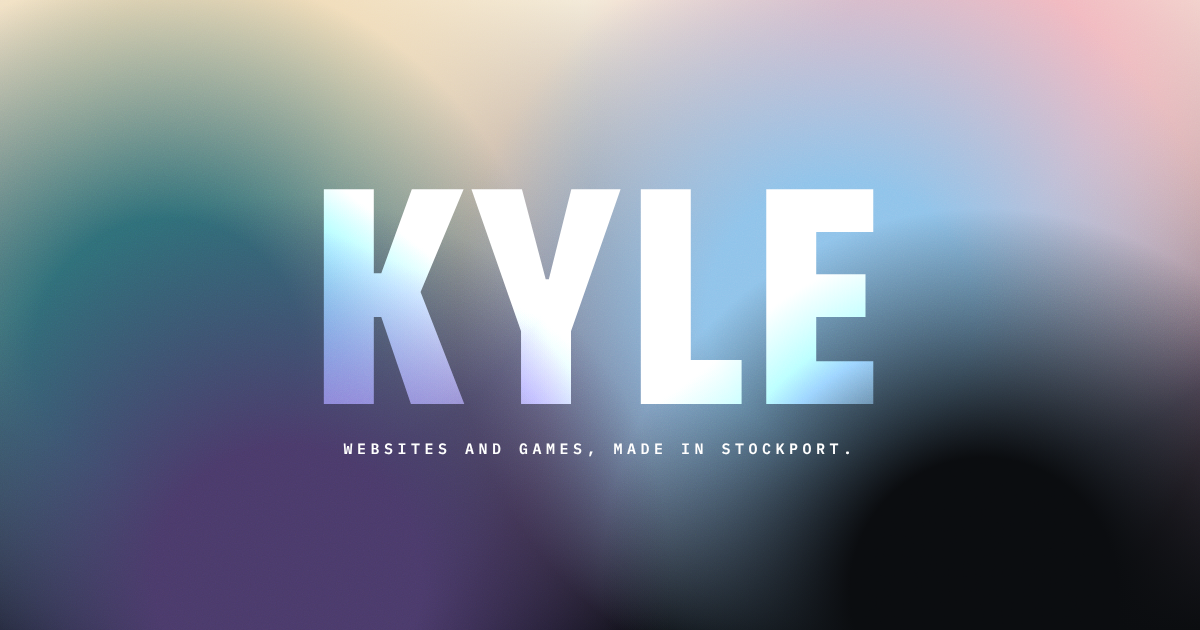
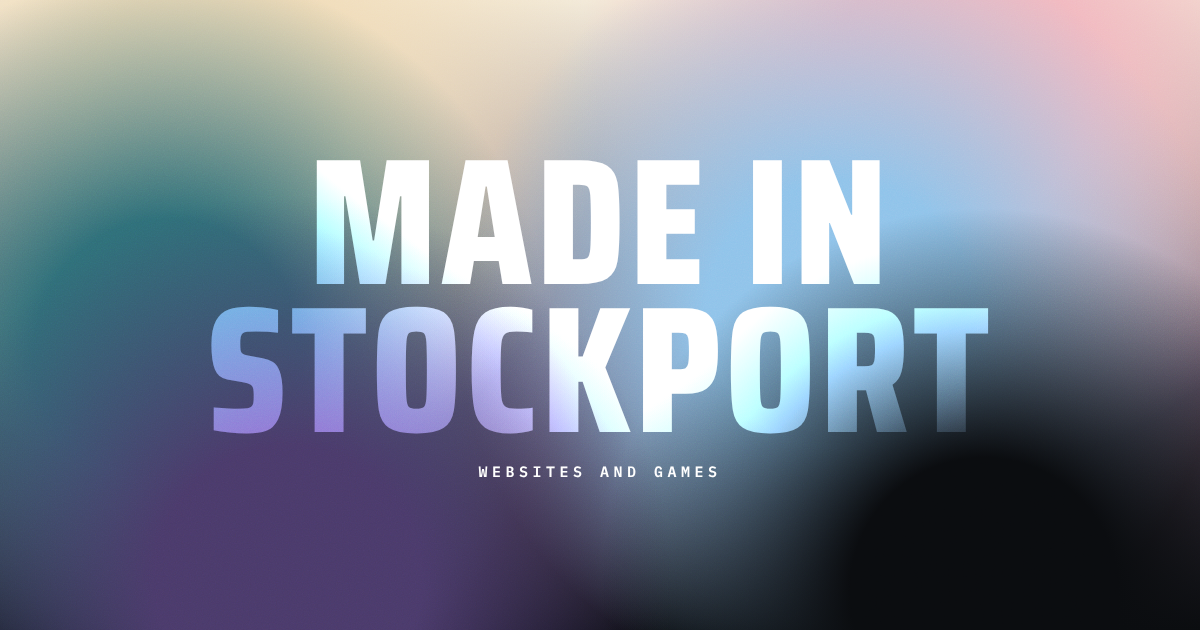
Take the name off the site

Changed region(s): [[0.1542, 0.2413, 0.8325, 0.754]]

diff --git a/site/styles.css b/site/styles.css
@@ -1,4 +1,4 @@
-/* Kyle · Made in Stockport
+/* Made in Stockport
    One page, six themes. The field at the top holds every project in a
    blot of its own colours, bleeding into its neighbours. Below it, each
    project is a poster in its own palette and type, and each poster starts
@@ -77,7 +77,7 @@ ul, ol { margin: 0; padding: 0; list-style: none; }
 .field { display: grid; place-items: center; }
 .blobs { position: absolute; inset: 0; z-index: -1; }
 .intro { position: relative; text-align: center; color: #fff; padding: 0 var(--gutter); }
-.intro h1 { font: 800 clamp(7rem, 26vw, 20rem)/.8 "Saira Condensed", sans-serif; text-transform: uppercase; letter-spacing: .02em; mix-blend-mode: overlay; }
+.intro h1 { font: 800 clamp(4.4rem, 15vw, 14rem)/.82 "Saira Condensed", sans-serif; text-transform: uppercase; letter-spacing: .02em; mix-blend-mode: overlay; }
 .intro p { margin-top: 18px; font: 600 clamp(12px, 1.4vw, 15px)/1.4 var(--mono); letter-spacing: .3em; text-transform: uppercase; }
 .down { position: absolute; left: 50%; bottom: 22px; transform: translateX(-50%); font: 600 22px/1 var(--mono); color: var(--fc-text); text-decoration: none; animation: bob 2s ease-in-out infinite; }
 @keyframes bob { 50% { transform: translate(-50%, 6px); } }

diff --git a/site/index.html b/site/index.html
@@ -3,9 +3,9 @@
 <head>
 <meta charset="utf-8">
 <meta name="viewport" content="width=device-width, initial-scale=1">
-<title>Kyle · Made in Stockport</title>
+<title>Made in Stockport</title>
 <meta name="description" content="Two websites and four games, each in its own colours.">
-<meta property="og:title" content="Kyle · Made in Stockport">
+<meta property="og:title" content="Made in Stockport">
 <meta property="og:description" content="Two websites and four games, each in its own colours.">
 <meta property="og:image" content="https://kylelookingaround.github.io/business-website/assets/og.png">
 <meta property="og:type" content="website">
@@ -32,8 +32,8 @@
 <header class="field" id="top">
   <div class="blobs" aria-hidden="true"><i class="b-rn"></i><i class="b-hr"></i><i class="b-hw"></i><i class="b-tc"></i><i class="b-dd"></i><i class="b-fc"></i></div>
   <div class="intro">
-    <h1>Kyle</h1>
-    <p>Websites and games, made in Stockport.</p>
+    <h1>Made in<br>Stockport</h1>
+    <p>Websites and games</p>
   </div>
   <a class="down" href="#rannys" aria-label="Scroll down">↓</a>
 </header>

diff --git a/site/the-commute.html b/site/the-commute.html
@@ -3,9 +3,9 @@
 <head>
 <meta charset="utf-8">
 <meta name="viewport" content="width=device-width, initial-scale=1">
-<title>The Commute · Kyle</title>
+<title>The Commute · Made in Stockport</title>
 <meta name="description" content="A transport tycoon on the real line from Stockport to Manchester Piccadilly.">
-<meta property="og:title" content="The Commute · Kyle">
+<meta property="og:title" content="The Commute · Made in Stockport">
 <meta property="og:description" content="A transport tycoon on the real line from Stockport to Manchester Piccadilly.">
 <meta property="og:image" content="https://kylelookingaround.github.io/business-website/assets/og.png">
 <meta property="og:type" content="website">
@@ -18,7 +18,7 @@
 </head>
 <body class="page p-tc">
 
-<a class="home" href="./">← Kyle</a>
+<a class="home" href="./">← All work</a>
 
 <main>
 <section class="zone z-tc" aria-labelledby="tc-h">

diff --git a/site/final-call.html b/site/final-call.html
@@ -3,9 +3,9 @@
 <head>
 <meta charset="utf-8">
 <meta name="viewport" content="width=device-width, initial-scale=1">
-<title>Final Call · Kyle</title>
+<title>Final Call · Made in Stockport</title>
 <meta name="description" content="An airport management game: one gate, one small plane, Airport of the Year.">
-<meta property="og:title" content="Final Call · Kyle">
+<meta property="og:title" content="Final Call · Made in Stockport">
 <meta property="og:description" content="An airport management game: one gate, one small plane, Airport of the Year.">
 <meta property="og:image" content="https://kylelookingaround.github.io/business-website/assets/og.png">
 <meta property="og:type" content="website">
@@ -18,7 +18,7 @@
 </head>
 <body class="page p-fc">
 
-<a class="home" href="./">← Kyle</a>
+<a class="home" href="./">← All work</a>
 
 <main>
 <section class="zone z-fc" aria-labelledby="fc-h">

diff --git a/site/rannys.html b/site/rannys.html
@@ -3,9 +3,9 @@
 <head>
 <meta charset="utf-8">
 <meta name="viewport" content="width=device-width, initial-scale=1">
-<title>Ranny's · Kyle</title>
+<title>Ranny's · Made in Stockport</title>
 <meta name="description" content="A retro-caff website for an independent coffee shop in Stockport.">
-<meta property="og:title" content="Ranny's · Kyle">
+<meta property="og:title" content="Ranny's · Made in Stockport">
 <meta property="og:description" content="A retro-caff website for an independent coffee shop in Stockport.">
 <meta property="og:image" content="https://kylelookingaround.github.io/business-website/assets/og.png">
 <meta property="og:type" content="website">
@@ -18,7 +18,7 @@
 </head>
 <body class="page p-rn">
 
-<a class="home" href="./">← Kyle</a>
+<a class="home" href="./">← All work</a>
 
 <main>
 <section class="zone z-rn" aria-labelledby="rn-h">

diff --git a/site/hearthworks.html b/site/hearthworks.html
@@ -3,9 +3,9 @@
 <head>
 <meta charset="utf-8">
 <meta name="viewport" content="width=device-width, initial-scale=1">
-<title>Hearthworks · Kyle</title>
+<title>Hearthworks · Made in Stockport</title>
 <meta name="description" content="A cosy town builder where the villagers plan the town.">
-<meta property="og:title" content="Hearthworks · Kyle">
+<meta property="og:title" content="Hearthworks · Made in Stockport">
 <meta property="og:description" content="A cosy town builder where the villagers plan the town.">
 <meta property="og:image" content="https://kylelookingaround.github.io/business-website/assets/og.png">
 <meta property="og:type" content="website">
@@ -18,7 +18,7 @@
 </head>
 <body class="page p-hw">
 
-<a class="home" href="./">← Kyle</a>
+<a class="home" href="./">← All work</a>
 
 <main>
 <section class="zone z-hw" aria-labelledby="hw-h">

diff --git a/site/hospital-radio.html b/site/hospital-radio.html
@@ -3,9 +3,9 @@
 <head>
 <meta charset="utf-8">
 <meta name="viewport" content="width=device-width, initial-scale=1">
-<title>Hospital Radio · Kyle</title>
+<title>Hospital Radio · Made in Stockport</title>
 <meta name="description" content="The website for a Manchester midwest-emo band.">
-<meta property="og:title" content="Hospital Radio · Kyle">
+<meta property="og:title" content="Hospital Radio · Made in Stockport">
 <meta property="og:description" content="The website for a Manchester midwest-emo band.">
 <meta property="og:image" content="https://kylelookingaround.github.io/business-website/assets/og.png">
 <meta property="og:type" content="website">
@@ -18,7 +18,7 @@
 </head>
 <body class="page p-hr">
 
-<a class="home" href="./">← Kyle</a>
+<a class="home" href="./">← All work</a>
 
 <main>
 <section class="zone z-hr" aria-labelledby="hr-h">

diff --git a/site/door-duty.html b/site/door-duty.html
@@ -3,9 +3,9 @@
 <head>
 <meta charset="utf-8">
 <meta name="viewport" content="width=device-width, initial-scale=1">
-<title>Door Duty · Kyle</title>
+<title>Door Duty · Made in Stockport</title>
 <meta name="description" content="A crowd-science puzzle game about fitting entrances.">
-<meta property="og:title" content="Door Duty · Kyle">
+<meta property="og:title" content="Door Duty · Made in Stockport">
 <meta property="og:description" content="A crowd-science puzzle game about fitting entrances.">
 <meta property="og:image" content="https://kylelookingaround.github.io/business-website/assets/og.png">
 <meta property="og:type" content="website">
@@ -18,7 +18,7 @@
 </head>
 <body class="page p-dd">
 
-<a class="home" href="./">← Kyle</a>
+<a class="home" href="./">← All work</a>
 
 <main>
 <section class="zone z-dd" aria-labelledby="dd-h">

diff --git a/site/app.js b/site/app.js
@@ -1,4 +1,4 @@
-// Kyle · Things I've made: the small bits of life on the page.
+// Made in Stockport: the small bits of life on the page.
 // Everything here is decoration; the page reads fine without it.
 (() => {
   const still = matchMedia('(prefers-reduced-motion: reduce)').matches;

diff --git a/README.md b/README.md
@@ -1,4 +1,4 @@
-# Kyle · Things I've made
+# Made in Stockport
 
 A one-page portfolio of two websites and four games:
 
